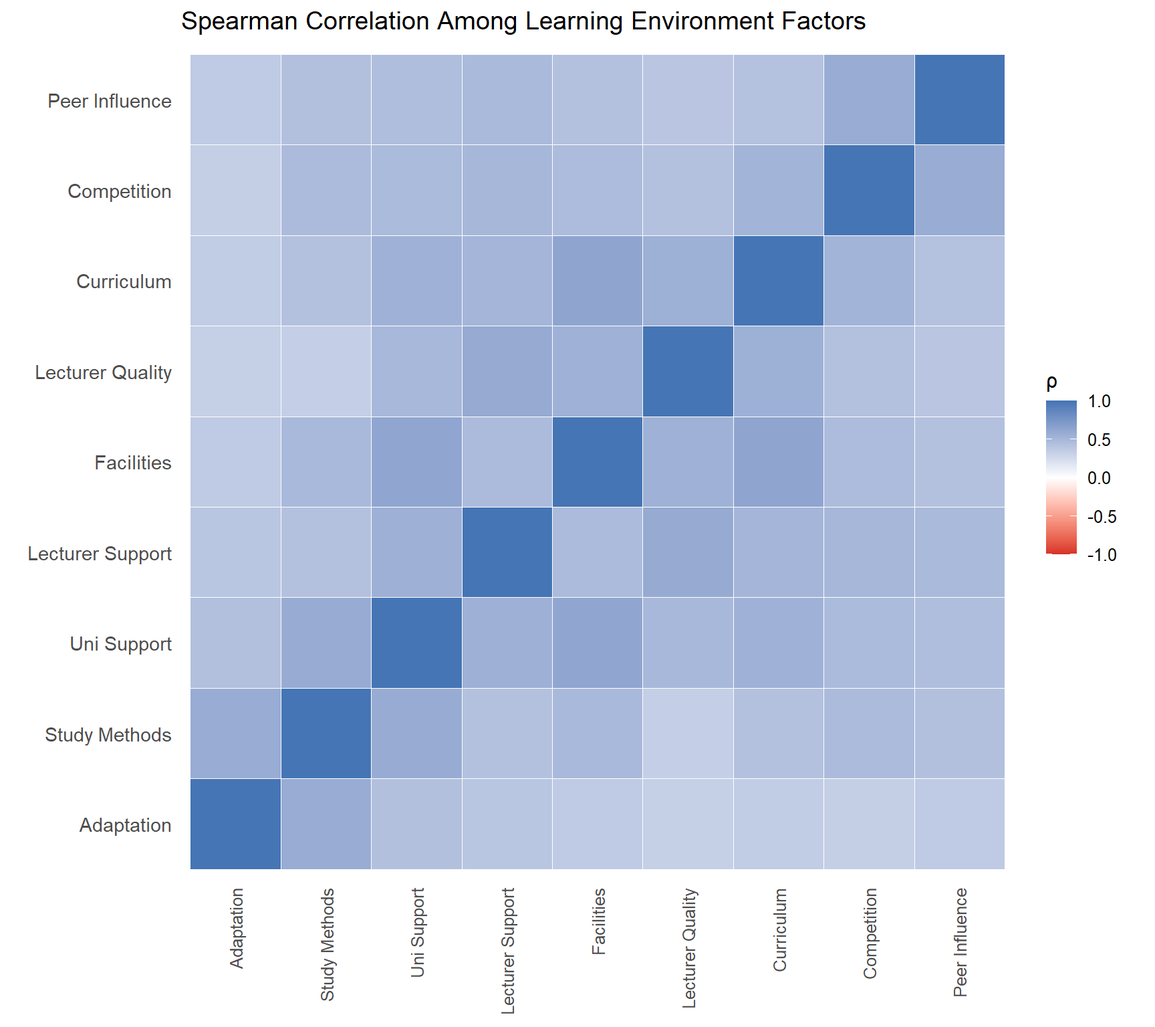
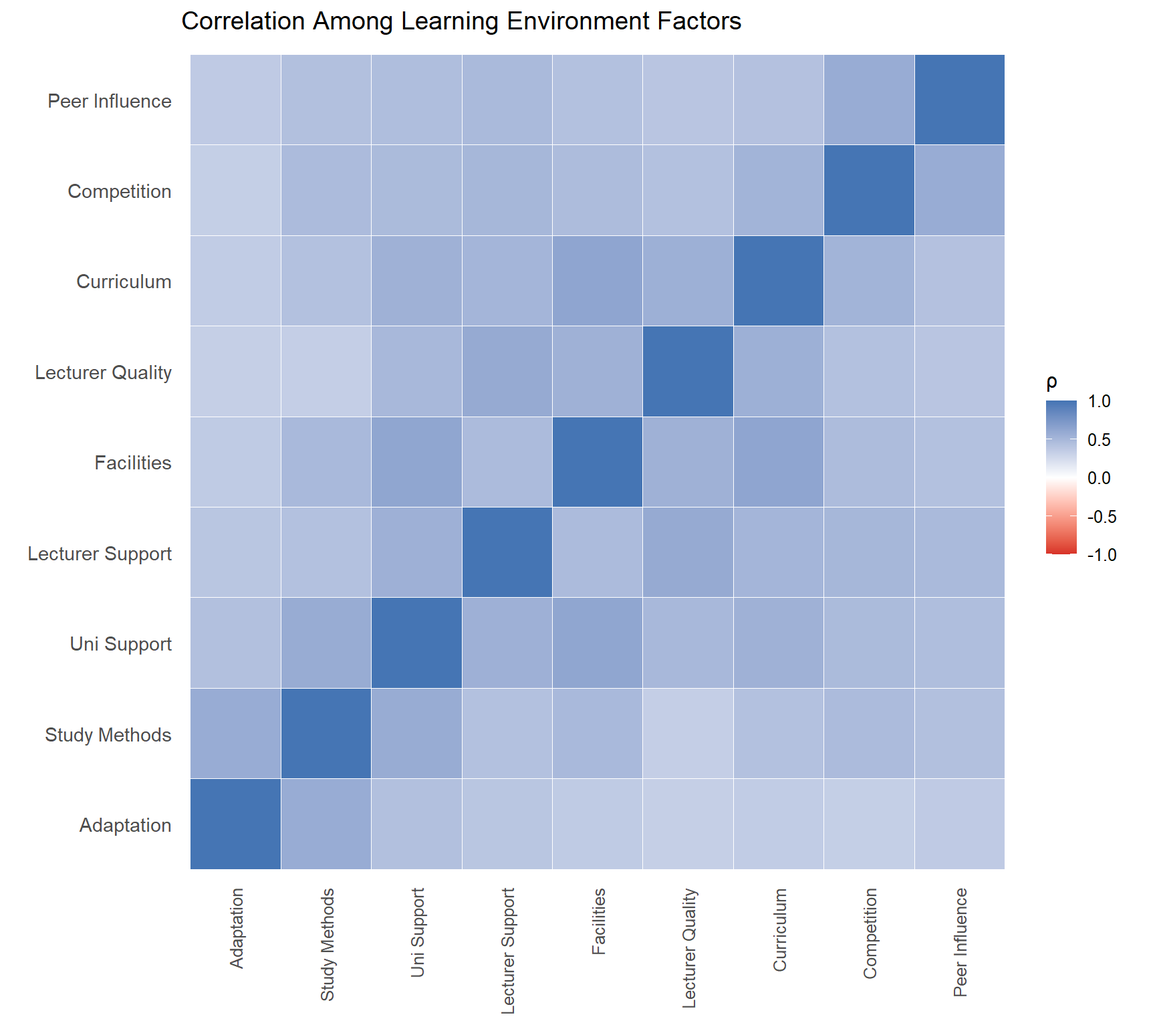
commit on 13 feb

Changed region(s): [[0.1562, 0.0, 0.75, 0.0312]]

diff --git a/_site/TE01.html b/_site/TE01.html
@@ -230,7 +230,7 @@ pre > code.sourceCode > span > a:first-child::before { text-decoration: underlin
     <div>
     <div class="quarto-title-meta-heading">Modified</div>
     <div class="quarto-title-meta-contents">
-      <p class="date-modified">February 8, 2026</p>
+      <p class="date-modified">February 13, 2026</p>
     </div>
   </div>
     
@@ -289,12 +289,10 @@ pre > code.sourceCode > span > a:first-child::before { text-decoration: underlin
 </div>
 </div>
 <div class="callout-body-container callout-body">
-<section id="code" class="level3">
-<h3 class="anchored" data-anchor-id="code">Code</h3>
-<div class="code-copy-outer-scaffold"><div class="sourceCode" id="cb5"><pre class="sourceCode r code-with-copy"><code class="sourceCode r"><span id="cb5-1"><a href="#cb5-1" aria-hidden="true" tabindex="-1"></a><span class="fu">ggplot</span>(<span class="fu">mutate</span>(<span class="fu">count</span>(df, GPA), <span class="at">pct =</span> n <span class="sc">/</span> <span class="fu">sum</span>(n)), <span class="fu">aes</span>(GPA, pct, <span class="at">fill =</span> GPA)) <span class="sc">+</span> <span class="fu">geom_col</span>() <span class="sc">+</span> <span class="fu">coord_flip</span>() <span class="sc">+</span> <span class="fu">scale_y_continuous</span>(<span class="at">labels =</span> scales<span class="sc">::</span><span class="fu">percent_format</span>()) <span class="sc">+</span> <span class="fu">labs</span>(<span class="at">title =</span> <span class="st">"Overall GPA distribution"</span>,<span class="at">x =</span> <span class="cn">NULL</span>, <span class="at">y =</span> <span class="st">"Share of students"</span>, <span class="at">fill =</span> <span class="st">"GPA"</span>) <span class="sc">+</span> <span class="fu">theme_minimal</span>()</span></code></pre></div><button title="Copy to Clipboard" class="code-copy-button"><i class="bi"></i></button></div>
-</section>
-<section id="visual" class="level3">
-<h3 class="anchored" data-anchor-id="visual">Visual</h3>
+<div class="tabset-margin-container"></div><div class="panel-tabset">
+<ul class="nav nav-tabs" role="tablist"><li class="nav-item" role="presentation"><a class="nav-link active" id="tabset-1-1-tab" data-bs-toggle="tab" data-bs-target="#tabset-1-1" role="tab" aria-controls="tabset-1-1" aria-selected="true" href="">Visual</a></li><li class="nav-item" role="presentation"><a class="nav-link" id="tabset-1-2-tab" data-bs-toggle="tab" data-bs-target="#tabset-1-2" role="tab" aria-controls="tabset-1-2" aria-selected="false" href="">Code</a></li></ul>
+<div class="tab-content">
+<div id="tabset-1-1" class="tab-pane active" role="tabpanel" aria-labelledby="tabset-1-1-tab">
 <div class="cell">
 <div class="cell-output-display">
 <div>
@@ -305,11 +303,28 @@ pre > code.sourceCode > span > a:first-child::before { text-decoration: underlin
 </div>
 </div>
 <p><strong>Observation:</strong><br>
-Overall, the GPA distribution is concentrated in the mid-performance range. Most students fall within the 2.5–&lt;3.2 and 3.2–&lt;3.6 categories, while only small proportions appear at the lowest and highest ends. This indicates that the cohort largely consists of average-to-good performers rather than extreme achievers, suggesting a relatively homogeneous distribution of academic outcomes.</p>
-</section>
+Overall, the GPA distribution is concentrated in the mid-performance range. Most students fall within the 2.5 to &lt;3.2 and 3.2 to &lt;3.6 categories, while only small proportions appear at the lowest and highest ends. This indicates that the cohort largely consists of average-to-good performers rather than extreme achievers, suggesting a relatively homogeneous distribution of academic outcomes.</p>
+</div>
+<div id="tabset-1-2" class="tab-pane" role="tabpanel" aria-labelledby="tabset-1-2-tab">
+<div class="code-copy-outer-scaffold"><div class="sourceCode" id="cb5"><pre class="sourceCode r code-with-copy"><code class="sourceCode r"><span id="cb5-1"><a href="#cb5-1" aria-hidden="true" tabindex="-1"></a>total_students <span class="ot">&lt;-</span> <span class="fu">nrow</span>(df)</span>
+<span id="cb5-2"><a href="#cb5-2" aria-hidden="true" tabindex="-1"></a></span>
+<span id="cb5-3"><a href="#cb5-3" aria-hidden="true" tabindex="-1"></a><span class="fu">ggplot</span>(<span class="fu">mutate</span>(<span class="fu">count</span>(df, GPA), <span class="at">pct =</span> n <span class="sc">/</span> <span class="fu">sum</span>(n)), </span>
+<span id="cb5-4"><a href="#cb5-4" aria-hidden="true" tabindex="-1"></a>       <span class="fu">aes</span>(GPA, pct, <span class="at">fill =</span> GPA)) <span class="sc">+</span></span>
+<span id="cb5-5"><a href="#cb5-5" aria-hidden="true" tabindex="-1"></a>  <span class="fu">geom_col</span>() <span class="sc">+</span></span>
+<span id="cb5-6"><a href="#cb5-6" aria-hidden="true" tabindex="-1"></a>  <span class="fu">coord_flip</span>() <span class="sc">+</span></span>
+<span id="cb5-7"><a href="#cb5-7" aria-hidden="true" tabindex="-1"></a>  <span class="fu">scale_y_continuous</span>(<span class="at">labels =</span> scales<span class="sc">::</span><span class="fu">percent_format</span>()) <span class="sc">+</span></span>
+<span id="cb5-8"><a href="#cb5-8" aria-hidden="true" tabindex="-1"></a>  <span class="fu">labs</span>(</span>
+<span id="cb5-9"><a href="#cb5-9" aria-hidden="true" tabindex="-1"></a>    <span class="at">title =</span> <span class="fu">paste0</span>(<span class="st">"Overall GPA distribution (N = "</span>, total_students, <span class="st">")"</span>),</span>
+<span id="cb5-10"><a href="#cb5-10" aria-hidden="true" tabindex="-1"></a>    <span class="at">x =</span> <span class="cn">NULL</span>,</span>
+<span id="cb5-11"><a href="#cb5-11" aria-hidden="true" tabindex="-1"></a>    <span class="at">y =</span> <span class="st">"% of students"</span>,</span>
+<span id="cb5-12"><a href="#cb5-12" aria-hidden="true" tabindex="-1"></a>    <span class="at">fill =</span> <span class="st">"GPA"</span></span>
+<span id="cb5-13"><a href="#cb5-13" aria-hidden="true" tabindex="-1"></a>  ) <span class="sc">+</span></span>
+<span id="cb5-14"><a href="#cb5-14" aria-hidden="true" tabindex="-1"></a>  <span class="fu">theme_minimal</span>()</span></code></pre></div><button title="Copy to Clipboard" class="code-copy-button"><i class="bi"></i></button></div>
 </div>
 </div>
-<hr>
+</div>
+</div>
+</div>
 <div class="callout callout-style-default callout-note callout-titled">
 <div class="callout-header d-flex align-content-center">
 <div class="callout-icon-container">
@@ -320,12 +335,10 @@ Overall, the GPA distribution is concentrated in the mid-performance range. Most
 </div>
 </div>
 <div class="callout-body-container callout-body">
-<section id="code-1" class="level3">
-<h3 class="anchored" data-anchor-id="code-1">Code</h3>
-<div class="code-copy-outer-scaffold"><div class="sourceCode" id="cb6"><pre class="sourceCode r code-with-copy"><code class="sourceCode r"><span id="cb6-1"><a href="#cb6-1" aria-hidden="true" tabindex="-1"></a><span class="fu">ggplot</span>(<span class="fu">mutate</span>(<span class="fu">group_by</span>(<span class="fu">count</span>(df, Year, GPA), Year), <span class="at">pct =</span> n <span class="sc">/</span> <span class="fu">sum</span>(n)), <span class="fu">aes</span>(Year, pct, <span class="at">fill =</span> GPA)) <span class="sc">+</span> <span class="fu">geom_col</span>(<span class="at">position =</span> <span class="st">"fill"</span>) <span class="sc">+</span> <span class="fu">scale_y_continuous</span>(<span class="at">labels =</span> scales<span class="sc">::</span><span class="fu">percent_format</span>()) <span class="sc">+</span> <span class="fu">labs</span>(<span class="at">title =</span> <span class="st">"GPA composition by year of study"</span>, <span class="at">x =</span> <span class="cn">NULL</span>, <span class="at">y =</span> <span class="st">"Share within year"</span>, <span class="at">fill =</span> <span class="st">"GPA"</span>) <span class="sc">+</span> <span class="fu">theme_minimal</span>()</span></code></pre></div><button title="Copy to Clipboard" class="code-copy-button"><i class="bi"></i></button></div>
-</section>
-<section id="visual-1" class="level3">
-<h3 class="anchored" data-anchor-id="visual-1">Visual</h3>
+<div class="tabset-margin-container"></div><div class="panel-tabset">
+<ul class="nav nav-tabs" role="tablist"><li class="nav-item" role="presentation"><a class="nav-link active" id="tabset-2-1-tab" data-bs-toggle="tab" data-bs-target="#tabset-2-1" role="tab" aria-controls="tabset-2-1" aria-selected="true" href="">Visual</a></li><li class="nav-item" role="presentation"><a class="nav-link" id="tabset-2-2-tab" data-bs-toggle="tab" data-bs-target="#tabset-2-2" role="tab" aria-controls="tabset-2-2" aria-selected="false" href="">Code</a></li></ul>
+<div class="tab-content">
+<div id="tabset-2-1" class="tab-pane active" role="tabpanel" aria-labelledby="tabset-2-1-tab">
 <div class="cell">
 <div class="cell-output-display">
 <div>
@@ -336,11 +349,15 @@ Overall, the GPA distribution is concentrated in the mid-performance range. Most
 </div>
 </div>
 <p><strong>Observation:</strong><br>
-Performance patterns vary slightly across academic years. Senior students and graduates generally exhibit a higher proportion of good and excellent GPAs compared with earlier-year students. This may reflect accumulated experience, improved study strategies, and better adaptation to university expectations over time. In contrast, newer students show more mid-range outcomes, possibly due to transitional challenges. The results suggest that academic achievement may improve progressively as students become more familiar with the learning environment.</p>
-</section>
+Performance patterns vary slightly across academic years. Senior students and graduates generally exhibit a higher proportion of good and excellent GPAs compared with earlier-year students. This may reflect accumulated experience, improved study strategies and better adaptation to university expectations over time. In contrast, newer students show more mid-range outcomes, possibly due to transitional challenges. The results suggest that academic achievement may improve progressively as students become more familiar with the learning environment.</p>
+</div>
+<div id="tabset-2-2" class="tab-pane" role="tabpanel" aria-labelledby="tabset-2-2-tab">
+<div class="code-copy-outer-scaffold"><div class="sourceCode" id="cb6"><pre class="sourceCode r code-with-copy"><code class="sourceCode r"><span id="cb6-1"><a href="#cb6-1" aria-hidden="true" tabindex="-1"></a><span class="fu">ggplot</span>(<span class="fu">mutate</span>(<span class="fu">group_by</span>(<span class="fu">count</span>(df, Year, GPA), Year), <span class="at">pct =</span> n <span class="sc">/</span> <span class="fu">sum</span>(n)), <span class="fu">aes</span>(Year, pct, <span class="at">fill =</span> GPA)) <span class="sc">+</span> <span class="fu">geom_col</span>(<span class="at">position =</span> <span class="st">"fill"</span>) <span class="sc">+</span> <span class="fu">scale_y_continuous</span>(<span class="at">labels =</span> scales<span class="sc">::</span><span class="fu">percent_format</span>()) <span class="sc">+</span> <span class="fu">labs</span>(<span class="at">title =</span> <span class="st">"GPA composition by year of study"</span>, <span class="at">x =</span> <span class="cn">NULL</span>, <span class="at">y =</span> <span class="st">"Share within year"</span>, <span class="at">fill =</span> <span class="st">"GPA"</span>) <span class="sc">+</span> <span class="fu">theme_minimal</span>()</span></code></pre></div><button title="Copy to Clipboard" class="code-copy-button"><i class="bi"></i></button></div>
 </div>
 </div>
-<hr>
+</div>
+</div>
+</div>
 <div class="callout callout-style-default callout-note callout-titled">
 <div class="callout-header d-flex align-content-center">
 <div class="callout-icon-container">
@@ -351,13 +368,10 @@ Performance patterns vary slightly across academic years. Senior students and gr
 </div>
 </div>
 <div class="callout-body-container callout-body">
-<section id="code-2" class="level3">
-<h3 class="anchored" data-anchor-id="code-2">Code</h3>
-<div class="code-copy-outer-scaffold"><div class="sourceCode" id="cb7"><pre class="sourceCode r code-with-copy"><code class="sourceCode r"><span id="cb7-1"><a href="#cb7-1" aria-hidden="true" tabindex="-1"></a><span class="fu">ggplot</span>(<span class="fu">mutate</span>(<span class="fu">group_by</span>(<span class="fu">count</span>(df, Year, Time_SocicalMedia, GPA), Year, Time_SocicalMedia),<span class="at">pct =</span> n <span class="sc">/</span> <span class="fu">sum</span>(n)),<span class="fu">aes</span>(Time_SocicalMedia, pct, <span class="at">fill =</span> GPA)) <span class="sc">+</span> <span class="fu">geom_col</span>(<span class="at">position =</span> <span class="st">"fill"</span>) <span class="sc">+</span> <span class="fu">facet_wrap</span>(<span class="sc">~</span>Year, <span class="at">ncol =</span> <span class="dv">2</span>, <span class="at">scales =</span> <span class="st">"fixed"</span>) <span class="sc">+</span> <span class="fu">scale_y_continuous</span>(<span class="at">labels =</span> scales<span class="sc">::</span><span class="fu">percent_format</span>()) <span class="sc">+</span> <span class="fu">labs</span>(<span class="at">title =</span> <span class="st">"GPA composition by daily social media use (by Year)"</span>, <span class="at">x =</span> <span class="st">"Social media time per day"</span>, <span class="at">y =</span> <span class="st">"Share within group"</span>, <span class="at">fill =</span> <span class="st">"GPA"</span>) <span class="sc">+</span> <span class="fu">theme_minimal</span>() <span class="sc">+</span> <span class="fu">theme</span>(</span>
-<span id="cb7-2"><a href="#cb7-2" aria-hidden="true" tabindex="-1"></a>    <span class="at">axis.text =</span> <span class="fu">element_text</span>(<span class="at">size =</span> <span class="dv">8</span>), <span class="at">axis.title =</span> <span class="fu">element_text</span>(<span class="at">size =</span> <span class="dv">9</span>), <span class="at">strip.text =</span> <span class="fu">element_text</span>(<span class="at">size =</span> <span class="dv">10</span>, <span class="at">face =</span> <span class="st">"bold"</span>))</span></code></pre></div><button title="Copy to Clipboard" class="code-copy-button"><i class="bi"></i></button></div>
-</section>
-<section id="visual-2" class="level3">
-<h3 class="anchored" data-anchor-id="visual-2">Visual</h3>
+<div class="tabset-margin-container"></div><div class="panel-tabset">
+<ul class="nav nav-tabs" role="tablist"><li class="nav-item" role="presentation"><a class="nav-link active" id="tabset-3-1-tab" data-bs-toggle="tab" data-bs-target="#tabset-3-1" role="tab" aria-controls="tabset-3-1" aria-selected="true" href="">Visual</a></li><li class="nav-item" role="presentation"><a class="nav-link" id="tabset-3-2-tab" data-bs-toggle="tab" data-bs-target="#tabset-3-2" role="tab" aria-controls="tabset-3-2" aria-selected="false" href="">Code</a></li></ul>
+<div class="tab-content">
+<div id="tabset-3-1" class="tab-pane active" role="tabpanel" aria-labelledby="tabset-3-1-tab">
 <div class="cell">
 <div class="cell-output-display">
 <div>
@@ -368,11 +382,16 @@ Performance patterns vary slightly across academic years. Senior students and gr
 </div>
 </div>
 <p><strong>Observation:</strong><br>
-Across all academic years, heavier daily social media use is associated with a slightly lower share of strong academic outcomes. Students spending more than three to four hours per day tend to show comparatively fewer high GPAs and relatively more mid-range results. Although the differences are modest rather than dramatic, the pattern is consistent across cohorts.</p>
-</section>
+Across all academic years, heavier daily social media use is associated with a slightly lower share of strong academic outcomes. Students spending more than three to four hours per day tend to show comparatively fewer high GPA and relatively more mid range results. Although the differences are modest rather than dramatic, the pattern is consistent across cohorts.</p>
+</div>
+<div id="tabset-3-2" class="tab-pane" role="tabpanel" aria-labelledby="tabset-3-2-tab">
+<div class="code-copy-outer-scaffold"><div class="sourceCode" id="cb7"><pre class="sourceCode r code-with-copy"><code class="sourceCode r"><span id="cb7-1"><a href="#cb7-1" aria-hidden="true" tabindex="-1"></a><span class="fu">ggplot</span>(<span class="fu">mutate</span>(<span class="fu">group_by</span>(<span class="fu">count</span>(df, Year, Time_SocicalMedia, GPA), Year, Time_SocicalMedia),<span class="at">pct =</span> n <span class="sc">/</span> <span class="fu">sum</span>(n)),<span class="fu">aes</span>(Time_SocicalMedia, pct, <span class="at">fill =</span> GPA)) <span class="sc">+</span> <span class="fu">geom_col</span>(<span class="at">position =</span> <span class="st">"fill"</span>) <span class="sc">+</span> <span class="fu">facet_wrap</span>(<span class="sc">~</span>Year, <span class="at">ncol =</span> <span class="dv">2</span>, <span class="at">scales =</span> <span class="st">"fixed"</span>) <span class="sc">+</span> <span class="fu">scale_y_continuous</span>(<span class="at">labels =</span> scales<span class="sc">::</span><span class="fu">percent_format</span>()) <span class="sc">+</span> <span class="fu">labs</span>(<span class="at">title =</span> <span class="st">"GPA composition by daily social media use (by Year)"</span>, <span class="at">x =</span> <span class="st">"Social media time per day"</span>, <span class="at">y =</span> <span class="st">"Share within group"</span>, <span class="at">fill =</span> <span class="st">"GPA"</span>) <span class="sc">+</span> <span class="fu">theme_minimal</span>() <span class="sc">+</span> <span class="fu">theme</span>(</span>
+<span id="cb7-2"><a href="#cb7-2" aria-hidden="true" tabindex="-1"></a>    <span class="at">axis.text =</span> <span class="fu">element_text</span>(<span class="at">size =</span> <span class="dv">8</span>), <span class="at">axis.title =</span> <span class="fu">element_text</span>(<span class="at">size =</span> <span class="dv">9</span>), <span class="at">strip.text =</span> <span class="fu">element_text</span>(<span class="at">size =</span> <span class="dv">10</span>, <span class="at">face =</span> <span class="st">"bold"</span>))</span></code></pre></div><button title="Copy to Clipboard" class="code-copy-button"><i class="bi"></i></button></div>
 </div>
 </div>
-<hr>
+</div>
+</div>
+</div>
 <div class="callout callout-style-default callout-note callout-titled">
 <div class="callout-header d-flex align-content-center">
 <div class="callout-icon-container">
@@ -383,12 +402,10 @@ Across all academic years, heavier daily social media use is associated with a s
 </div>
 </div>
 <div class="callout-body-container callout-body">
-<section id="code-3" class="level3">
-<h3 class="anchored" data-anchor-id="code-3">Code</h3>
-<div class="code-copy-outer-scaffold"><div class="sourceCode" id="cb8"><pre class="sourceCode r code-with-copy"><code class="sourceCode r"><span id="cb8-1"><a href="#cb8-1" aria-hidden="true" tabindex="-1"></a><span class="fu">ggplot</span>(<span class="fu">mutate</span>(<span class="fu">group_by</span>(<span class="fu">count</span>(df, Year, Time_Studying, GPA),     Year, Time_Studying),<span class="at">pct =</span> n <span class="sc">/</span> <span class="fu">sum</span>(n)),<span class="fu">aes</span>(Time_Studying, pct, <span class="at">fill =</span> GPA)) <span class="sc">+</span> <span class="fu">geom_col</span>(<span class="at">position =</span> <span class="st">"fill"</span>) <span class="sc">+</span> <span class="fu">facet_wrap</span>(<span class="sc">~</span>Year, <span class="at">ncol =</span> <span class="dv">2</span>, <span class="at">scales =</span> <span class="st">"fixed"</span>) <span class="sc">+</span> <span class="fu">scale_y_continuous</span>(<span class="at">labels =</span> scales<span class="sc">::</span><span class="fu">percent_format</span>()) <span class="sc">+</span> <span class="fu">labs</span>(<span class="at">title =</span> <span class="st">"GPA composition by daily study time (by Year)"</span>, <span class="at">x =</span> <span class="st">"Study time per day"</span>, <span class="at">y =</span> <span class="st">"Share within group"</span>, <span class="at">fill =</span> <span class="st">"GPA"</span>) <span class="sc">+</span> <span class="fu">theme_minimal</span>() <span class="sc">+</span> <span class="fu">theme</span>(<span class="at">axis.text =</span> <span class="fu">element_text</span>(<span class="at">size =</span> <span class="dv">8</span>), <span class="at">axis.title =</span> <span class="fu">element_text</span>(<span class="at">size =</span> <span class="dv">9</span>),  <span class="at">strip.text =</span> <span class="fu">element_text</span>(<span class="at">size =</span> <span class="dv">10</span>, <span class="at">face =</span> <span class="st">"bold"</span>))</span></code></pre></div><button title="Copy to Clipboard" class="code-copy-button"><i class="bi"></i></button></div>
-</section>
-<section id="visual-3" class="level3">
-<h3 class="anchored" data-anchor-id="visual-3">Visual</h3>
+<div class="tabset-margin-container"></div><div class="panel-tabset">
+<ul class="nav nav-tabs" role="tablist"><li class="nav-item" role="presentation"><a class="nav-link active" id="tabset-4-1-tab" data-bs-toggle="tab" data-bs-target="#tabset-4-1" role="tab" aria-controls="tabset-4-1" aria-selected="true" href="">Visual</a></li><li class="nav-item" role="presentation"><a class="nav-link" id="tabset-4-2-tab" data-bs-toggle="tab" data-bs-target="#tabset-4-2" role="tab" aria-controls="tabset-4-2" aria-selected="false" href="">Code</a></li></ul>
+<div class="tab-content">
+<div id="tabset-4-1" class="tab-pane active" role="tabpanel" aria-labelledby="tabset-4-1-tab">
 <div class="cell">
 <div class="cell-output-display">
 <div>
@@ -399,11 +416,15 @@ Across all academic years, heavier daily social media use is associated with a s
 </div>
 </div>
 <p><strong>Observation:</strong><br>
-Across all academic years, students who report longer daily study hours tend to show a higher share of good and excellent GPA outcomes. Groups studying six hours or more generally contain relatively more high-performing students, while shorter study durations display a larger proportion of mid-to-lower GPAs. Although the differences are moderate rather than dramatic, the pattern is consistent across cohorts. Overall, study time appears to be positively associated with academic performance, though other factors may also play a role.</p>
-</section>
+Across all academic years, students who report longer daily study hours tend to show a higher share of better GPA outcomes. Groups studying six hours or more generally contain relatively more high-performing students, while shorter study duration display a larger proportion of mid to lower range of GPA. Although the differences are moderate rather than dramatic, the pattern is consistent across cohorts. Overall, study time appears to be positively associated with academic performance.</p>
+</div>
+<div id="tabset-4-2" class="tab-pane" role="tabpanel" aria-labelledby="tabset-4-2-tab">
+<div class="code-copy-outer-scaffold"><div class="sourceCode" id="cb8"><pre class="sourceCode r code-with-copy"><code class="sourceCode r"><span id="cb8-1"><a href="#cb8-1" aria-hidden="true" tabindex="-1"></a><span class="fu">ggplot</span>(<span class="fu">mutate</span>(<span class="fu">group_by</span>(<span class="fu">count</span>(df, Year, Time_Studying, GPA),     Year, Time_Studying),<span class="at">pct =</span> n <span class="sc">/</span> <span class="fu">sum</span>(n)),<span class="fu">aes</span>(Time_Studying, pct, <span class="at">fill =</span> GPA)) <span class="sc">+</span> <span class="fu">geom_col</span>(<span class="at">position =</span> <span class="st">"fill"</span>) <span class="sc">+</span> <span class="fu">facet_wrap</span>(<span class="sc">~</span>Year, <span class="at">ncol =</span> <span class="dv">2</span>, <span class="at">scales =</span> <span class="st">"fixed"</span>) <span class="sc">+</span> <span class="fu">scale_y_continuous</span>(<span class="at">labels =</span> scales<span class="sc">::</span><span class="fu">percent_format</span>()) <span class="sc">+</span> <span class="fu">labs</span>(<span class="at">title =</span> <span class="st">"GPA composition by daily study time (by Year)"</span>, <span class="at">x =</span> <span class="st">"Study time per day"</span>, <span class="at">y =</span> <span class="st">"Share within group"</span>, <span class="at">fill =</span> <span class="st">"GPA"</span>) <span class="sc">+</span> <span class="fu">theme_minimal</span>() <span class="sc">+</span> <span class="fu">theme</span>(<span class="at">axis.text =</span> <span class="fu">element_text</span>(<span class="at">size =</span> <span class="dv">8</span>), <span class="at">axis.title =</span> <span class="fu">element_text</span>(<span class="at">size =</span> <span class="dv">9</span>),  <span class="at">strip.text =</span> <span class="fu">element_text</span>(<span class="at">size =</span> <span class="dv">10</span>, <span class="at">face =</span> <span class="st">"bold"</span>))</span></code></pre></div><button title="Copy to Clipboard" class="code-copy-button"><i class="bi"></i></button></div>
 </div>
 </div>
-<hr>
+</div>
+</div>
+</div>
 <div class="callout callout-style-default callout-note callout-titled">
 <div class="callout-header d-flex align-content-center">
 <div class="callout-icon-container">
@@ -414,16 +435,10 @@ Across all academic years, students who report longer daily study hours tend to 
 </div>
 </div>
 <div class="callout-body-container callout-body">
-<section id="code-4" class="level3">
-<h3 class="anchored" data-anchor-id="code-4">Code</h3>
-<div class="code-copy-outer-scaffold"><div class="sourceCode" id="cb9"><pre class="sourceCode r code-with-copy"><code class="sourceCode r"><span id="cb9-1"><a href="#cb9-1" aria-hidden="true" tabindex="-1"></a>p5_uni_support <span class="ot">&lt;-</span> <span class="fu">plot_likert_stack</span>(df, <span class="st">"SupportOf_Uni"</span>, <span class="st">"Perceived university support"</span>)</span>
-<span id="cb9-2"><a href="#cb9-2" aria-hidden="true" tabindex="-1"></a></span>
-<span id="cb9-3"><a href="#cb9-3" aria-hidden="true" tabindex="-1"></a>p5_lec_support <span class="ot">&lt;-</span> <span class="fu">plot_likert_stack</span>(df, <span class="st">"SupportOf_Lec"</span>, <span class="st">"Perceived lecturer support"</span>)</span>
-<span id="cb9-4"><a href="#cb9-4" aria-hidden="true" tabindex="-1"></a></span>
-<span id="cb9-5"><a href="#cb9-5" aria-hidden="true" tabindex="-1"></a>p5_uni_support <span class="sc">/</span> p5_lec_support</span></code></pre></div><button title="Copy to Clipboard" class="code-copy-button"><i class="bi"></i></button></div>
-</section>
-<section id="visual-4" class="level3">
-<h3 class="anchored" data-anchor-id="visual-4">Visual</h3>
+<div class="tabset-margin-container"></div><div class="panel-tabset">
+<ul class="nav nav-tabs" role="tablist"><li class="nav-item" role="presentation"><a class="nav-link active" id="tabset-5-1-tab" data-bs-toggle="tab" data-bs-target="#tabset-5-1" role="tab" aria-controls="tabset-5-1" aria-selected="true" href="">Visual</a></li><li class="nav-item" role="presentation"><a class="nav-link" id="tabset-5-2-tab" data-bs-toggle="tab" data-bs-target="#tabset-5-2" role="tab" aria-controls="tabset-5-2" aria-selected="false" href="">Code</a></li></ul>
+<div class="tab-content">
+<div id="tabset-5-1" class="tab-pane active" role="tabpanel" aria-labelledby="tabset-5-1-tab">
 <div class="cell">
 <div class="cell-output-display">
 <div>
@@ -434,11 +449,19 @@ Across all academic years, students who report longer daily study hours tend to 
 </div>
 </div>
 <p><strong>Observation:</strong><br>
-Perceptions of both university and lecturer support are strongly positive, with most responses concentrated in the “Quite” and “Very” supportive categories. Lecturer support appears marginally stronger than institutional support, indicating that direct interaction with teaching staff may have a greater perceived impact on learning. Negative responses are minimal, suggesting that students generally feel well assisted academically and administratively. Such supportive conditions likely contribute to maintaining stable and satisfactory learning outcomes.</p>
-</section>
+Perceptions of both university and lecturer support are strongly positive, with most responses concentrated in the “Quite” and “Very” supportive categories. Lecturer support appears marginally stronger than university support, indicating that direct interaction with teaching staff may have a greater perceived impact on learning. Negative responses are minimal, suggesting that students generally feel well assisted academically and administratively. Such supportive conditions likely contribute to maintaining stable and satisfactory learning outcomes.</p>
+</div>
+<div id="tabset-5-2" class="tab-pane" role="tabpanel" aria-labelledby="tabset-5-2-tab">
+<div class="code-copy-outer-scaffold"><div class="sourceCode" id="cb9"><pre class="sourceCode r code-with-copy"><code class="sourceCode r"><span id="cb9-1"><a href="#cb9-1" aria-hidden="true" tabindex="-1"></a>p5_uni_support <span class="ot">&lt;-</span> <span class="fu">plot_likert_stack</span>(df, <span class="st">"SupportOf_Uni"</span>, <span class="st">"Perceived university support"</span>)</span>
+<span id="cb9-2"><a href="#cb9-2" aria-hidden="true" tabindex="-1"></a></span>
+<span id="cb9-3"><a href="#cb9-3" aria-hidden="true" tabindex="-1"></a>p5_lec_support <span class="ot">&lt;-</span> <span class="fu">plot_likert_stack</span>(df, <span class="st">"SupportOf_Lec"</span>, <span class="st">"Perceived lecturer support"</span>)</span>
+<span id="cb9-4"><a href="#cb9-4" aria-hidden="true" tabindex="-1"></a></span>
+<span id="cb9-5"><a href="#cb9-5" aria-hidden="true" tabindex="-1"></a>p5_uni_support <span class="sc">/</span> p5_lec_support</span></code></pre></div><button title="Copy to Clipboard" class="code-copy-button"><i class="bi"></i></button></div>
 </div>
 </div>
-<hr>
+</div>
+</div>
+</div>
 <div class="callout callout-style-default callout-note callout-titled">
 <div class="callout-header d-flex align-content-center">
 <div class="callout-icon-container">
@@ -449,30 +472,10 @@ Perceptions of both university and lecturer support are strongly positive, with 
 </div>
 </div>
 <div class="callout-body-container callout-body">
-<section id="code-5" class="level3">
-<h3 class="anchored" data-anchor-id="code-5">Code</h3>
-<div class="code-copy-outer-scaffold"><div class="sourceCode" id="cb10"><pre class="sourceCode r code-with-copy"><code class="sourceCode r"><span id="cb10-1"><a href="#cb10-1" aria-hidden="true" tabindex="-1"></a></span>
-<span id="cb10-2"><a href="#cb10-2" aria-hidden="true" tabindex="-1"></a>likert_vars <span class="ot">&lt;-</span> <span class="fu">c</span>(<span class="st">"Adapt_Learning_Uni"</span>,<span class="st">"Study_Methods"</span>,<span class="st">"SupportOf_Uni"</span>,<span class="st">"SupportOf_Lec"</span>, <span class="st">"Facilitie_Uni"</span>,<span class="st">"Quality_Lecturer"</span>,<span class="st">"TrainingCurriculum"</span>,<span class="st">"Competitive_Class"</span>,<span class="st">"InfuenceF_Friends"</span>)</span>
-<span id="cb10-3"><a href="#cb10-3" aria-hidden="true" tabindex="-1"></a></span>
-<span id="cb10-4"><a href="#cb10-4" aria-hidden="true" tabindex="-1"></a>nice_labels <span class="ot">&lt;-</span> <span class="fu">c</span>(<span class="st">"Adaptation"</span>,<span class="st">"Study Methods"</span>,<span class="st">"Uni Support"</span>,<span class="st">"Lecturer Support"</span>,<span class="st">"Facilities"</span>,<span class="st">"Lecturer Quality"</span>,<span class="st">"Curriculum"</span>, <span class="st">"Competition"</span>,<span class="st">"Peer Influence"</span>)</span>
-<span id="cb10-5"><a href="#cb10-5" aria-hidden="true" tabindex="-1"></a></span>
-<span id="cb10-6"><a href="#cb10-6" aria-hidden="true" tabindex="-1"></a>df2 <span class="ot">&lt;-</span> <span class="fu">select</span>(df, <span class="fu">all_of</span>(likert_vars))</span>
-<span id="cb10-7"><a href="#cb10-7" aria-hidden="true" tabindex="-1"></a>df2 <span class="ot">&lt;-</span> <span class="fu">drop_na</span>(df2)</span>
-<span id="cb10-8"><a href="#cb10-8" aria-hidden="true" tabindex="-1"></a></span>
-<span id="cb10-9"><a href="#cb10-9" aria-hidden="true" tabindex="-1"></a>corr_mat <span class="ot">&lt;-</span> <span class="fu">cor</span>(df2, <span class="at">method =</span> <span class="st">"spearman"</span>)</span>
-<span id="cb10-10"><a href="#cb10-10" aria-hidden="true" tabindex="-1"></a></span>
-<span id="cb10-11"><a href="#cb10-11" aria-hidden="true" tabindex="-1"></a><span class="fu">colnames</span>(corr_mat) <span class="ot">&lt;-</span> nice_labels</span>
-<span id="cb10-12"><a href="#cb10-12" aria-hidden="true" tabindex="-1"></a><span class="fu">rownames</span>(corr_mat) <span class="ot">&lt;-</span> nice_labels</span>
-<span id="cb10-13"><a href="#cb10-13" aria-hidden="true" tabindex="-1"></a></span>
-<span id="cb10-14"><a href="#cb10-14" aria-hidden="true" tabindex="-1"></a></span>
-<span id="cb10-15"><a href="#cb10-15" aria-hidden="true" tabindex="-1"></a>corr_long <span class="ot">&lt;-</span> <span class="fu">as.data.frame</span>(<span class="fu">as.table</span>(corr_mat))</span>
-<span id="cb10-16"><a href="#cb10-16" aria-hidden="true" tabindex="-1"></a>corr_long <span class="ot">&lt;-</span> <span class="fu">rename</span>(corr_long, <span class="at">var1 =</span> Var1, <span class="at">var2 =</span> Var2, <span class="at">rho =</span> Freq)</span>
-<span id="cb10-17"><a href="#cb10-17" aria-hidden="true" tabindex="-1"></a></span>
-<span id="cb10-18"><a href="#cb10-18" aria-hidden="true" tabindex="-1"></a><span class="fu">ggplot</span>(corr_long, <span class="fu">aes</span>(var1, var2, <span class="at">fill =</span> rho)) <span class="sc">+</span> <span class="fu">geom_tile</span>(<span class="at">color =</span> <span class="st">"white"</span>) <span class="sc">+</span> <span class="fu">coord_equal</span>() <span class="sc">+</span> <span class="fu">scale_fill_gradient2</span>(<span class="at">low =</span> <span class="st">"#d73027"</span>,   <span class="at">mid =</span> <span class="st">"white"</span>, <span class="at">high =</span> <span class="st">"#4575b4"</span>, <span class="at">midpoint =</span> <span class="dv">0</span>, <span class="at">limits =</span> <span class="fu">c</span>(<span class="sc">-</span><span class="dv">1</span>,<span class="dv">1</span>)) <span class="sc">+</span></span>
-<span id="cb10-19"><a href="#cb10-19" aria-hidden="true" tabindex="-1"></a><span class="fu">labs</span>(<span class="at">title =</span> <span class="st">"Spearman Correlation Among Learning Environment Factors"</span>, <span class="at">x =</span> <span class="cn">NULL</span>, <span class="at">y =</span> <span class="cn">NULL</span>, <span class="at">fill =</span> <span class="st">"ρ"</span>) <span class="sc">+</span> <span class="fu">theme_minimal</span>(<span class="at">base_size =</span> <span class="dv">12</span>) <span class="sc">+</span> <span class="fu">theme</span>(<span class="at">axis.text.x =</span> <span class="fu">element_text</span>(<span class="at">angle =</span> <span class="dv">90</span>, <span class="at">vjust =</span> <span class="fl">0.5</span>, <span class="at">hjust =</span> <span class="dv">1</span>), <span class="at">axis.text.y =</span> <span class="fu">element_text</span>(<span class="at">size =</span> <span class="dv">11</span>), <span class="at">panel.grid =</span> <span class="fu">element_blank</span>())</span></code></pre></div><button title="Copy to Clipboard" class="code-copy-button"><i class="bi"></i></button></div>
-</section>
-<section id="visual-5" class="level3">
-<h3 class="anchored" data-anchor-id="visual-5">Visual</h3>
+<div class="tabset-margin-container"></div><div class="panel-tabset">
+<ul class="nav nav-tabs" role="tablist"><li class="nav-item" role="presentation"><a class="nav-link active" id="tabset-6-1-tab" data-bs-toggle="tab" data-bs-target="#tabset-6-1" role="tab" aria-controls="tabset-6-1" aria-selected="true" href="">Visual</a></li><li class="nav-item" role="presentation"><a class="nav-link" id="tabset-6-2-tab" data-bs-toggle="tab" data-bs-target="#tabset-6-2" role="tab" aria-controls="tabset-6-2" aria-selected="false" href="">Code</a></li></ul>
+<div class="tab-content">
+<div id="tabset-6-1" class="tab-pane active" role="tabpanel" aria-labelledby="tabset-6-1-tab">
 <div class="cell">
 <div class="cell-output-display">
 <div>
@@ -483,8 +486,31 @@ Perceptions of both university and lecturer support are strongly positive, with 
 </div>
 </div>
 <p><strong>Observation:</strong><br>
-The heatmap shows moderate positive relationships among several learning environment factors. Adaptation, effective study methods, and lecturer quality tend to move together, indicating that these aspects reinforce one another. Students perceiving strong teaching quality also report better adjustment and learning behaviours. However, correlations are not excessively high, suggesting each factor contributes uniquely to outcomes. Overall, academic performance appears to be shaped by multiple interconnected yet distinct elements of the learning experience rather than any single dominant driver.</p>
-</section>
+The heatmap shows moderate positive relationships among several learning environment factors. Adaptation, effective study methods, and lecturer quality tend to move together, indicating that these aspects reinforce one another. Students perceiving strong teaching quality also report better adjustment and learning behaviors. However, correlations are not excessively high, suggesting each factor contributes uniquely to outcomes. Overall, academic performance appears to be shaped by multiple interconnected yet distinct elements of the learning experience rather than any single dominant driver.</p>
+</div>
+<div id="tabset-6-2" class="tab-pane" role="tabpanel" aria-labelledby="tabset-6-2-tab">
+<div class="code-copy-outer-scaffold"><div class="sourceCode" id="cb10"><pre class="sourceCode r code-with-copy"><code class="sourceCode r"><span id="cb10-1"><a href="#cb10-1" aria-hidden="true" tabindex="-1"></a></span>
+<span id="cb10-2"><a href="#cb10-2" aria-hidden="true" tabindex="-1"></a>likert_vars <span class="ot">&lt;-</span> <span class="fu">c</span>(<span class="st">"Adapt_Learning_Uni"</span>,<span class="st">"Study_Methods"</span>,<span class="st">"SupportOf_Uni"</span>,<span class="st">"SupportOf_Lec"</span>, <span class="st">"Facilitie_Uni"</span>,<span class="st">"Quality_Lecturer"</span>,<span class="st">"TrainingCurriculum"</span>,<span class="st">"Competitive_Class"</span>,<span class="st">"InfuenceF_Friends"</span>)</span>
+<span id="cb10-3"><a href="#cb10-3" aria-hidden="true" tabindex="-1"></a></span>
+<span id="cb10-4"><a href="#cb10-4" aria-hidden="true" tabindex="-1"></a>likert_labels <span class="ot">&lt;-</span> <span class="fu">c</span>(<span class="st">"Adaptation"</span>,<span class="st">"Study Methods"</span>,<span class="st">"Uni Support"</span>,<span class="st">"Lecturer Support"</span>,<span class="st">"Facilities"</span>,<span class="st">"Lecturer Quality"</span>,<span class="st">"Curriculum"</span>, <span class="st">"Competition"</span>,<span class="st">"Peer Influence"</span>)</span>
+<span id="cb10-5"><a href="#cb10-5" aria-hidden="true" tabindex="-1"></a></span>
+<span id="cb10-6"><a href="#cb10-6" aria-hidden="true" tabindex="-1"></a>df2 <span class="ot">&lt;-</span> <span class="fu">select</span>(df, <span class="fu">all_of</span>(likert_vars))</span>
+<span id="cb10-7"><a href="#cb10-7" aria-hidden="true" tabindex="-1"></a>df2 <span class="ot">&lt;-</span> <span class="fu">drop_na</span>(df2)</span>
+<span id="cb10-8"><a href="#cb10-8" aria-hidden="true" tabindex="-1"></a></span>
+<span id="cb10-9"><a href="#cb10-9" aria-hidden="true" tabindex="-1"></a>corr_mat <span class="ot">&lt;-</span> <span class="fu">cor</span>(df2, <span class="at">method =</span> <span class="st">"spearman"</span>)</span>
+<span id="cb10-10"><a href="#cb10-10" aria-hidden="true" tabindex="-1"></a></span>
+<span id="cb10-11"><a href="#cb10-11" aria-hidden="true" tabindex="-1"></a><span class="fu">colnames</span>(corr_mat) <span class="ot">&lt;-</span> likert_labels</span>
+<span id="cb10-12"><a href="#cb10-12" aria-hidden="true" tabindex="-1"></a><span class="fu">rownames</span>(corr_mat) <span class="ot">&lt;-</span> likert_labels</span>
+<span id="cb10-13"><a href="#cb10-13" aria-hidden="true" tabindex="-1"></a></span>
+<span id="cb10-14"><a href="#cb10-14" aria-hidden="true" tabindex="-1"></a></span>
+<span id="cb10-15"><a href="#cb10-15" aria-hidden="true" tabindex="-1"></a>corr_long <span class="ot">&lt;-</span> <span class="fu">as.data.frame</span>(<span class="fu">as.table</span>(corr_mat))</span>
+<span id="cb10-16"><a href="#cb10-16" aria-hidden="true" tabindex="-1"></a>corr_long <span class="ot">&lt;-</span> <span class="fu">rename</span>(corr_long, <span class="at">var1 =</span> Var1, <span class="at">var2 =</span> Var2, <span class="at">rho =</span> Freq)</span>
+<span id="cb10-17"><a href="#cb10-17" aria-hidden="true" tabindex="-1"></a></span>
+<span id="cb10-18"><a href="#cb10-18" aria-hidden="true" tabindex="-1"></a><span class="fu">ggplot</span>(corr_long, <span class="fu">aes</span>(var1, var2, <span class="at">fill =</span> rho)) <span class="sc">+</span> <span class="fu">geom_tile</span>(<span class="at">color =</span> <span class="st">"white"</span>) <span class="sc">+</span> <span class="fu">coord_equal</span>() <span class="sc">+</span> <span class="fu">scale_fill_gradient2</span>(<span class="at">low =</span> <span class="st">"#d73027"</span>,   <span class="at">mid =</span> <span class="st">"white"</span>, <span class="at">high =</span> <span class="st">"#4575b4"</span>, <span class="at">midpoint =</span> <span class="dv">0</span>, <span class="at">limits =</span> <span class="fu">c</span>(<span class="sc">-</span><span class="dv">1</span>,<span class="dv">1</span>)) <span class="sc">+</span></span>
+<span id="cb10-19"><a href="#cb10-19" aria-hidden="true" tabindex="-1"></a><span class="fu">labs</span>(<span class="at">title =</span> <span class="st">"Correlation Among Learning Environment Factors"</span>, <span class="at">x =</span> <span class="cn">NULL</span>, <span class="at">y =</span> <span class="cn">NULL</span>, <span class="at">fill =</span> <span class="st">"ρ"</span>) <span class="sc">+</span> <span class="fu">theme_minimal</span>(<span class="at">base_size =</span> <span class="dv">12</span>) <span class="sc">+</span> <span class="fu">theme</span>(<span class="at">axis.text.x =</span> <span class="fu">element_text</span>(<span class="at">angle =</span> <span class="dv">90</span>, <span class="at">vjust =</span> <span class="fl">0.5</span>, <span class="at">hjust =</span> <span class="dv">1</span>), <span class="at">axis.text.y =</span> <span class="fu">element_text</span>(<span class="at">size =</span> <span class="dv">11</span>), <span class="at">panel.grid =</span> <span class="fu">element_blank</span>())</span></code></pre></div><button title="Copy to Clipboard" class="code-copy-button"><i class="bi"></i></button></div>
+</div>
+</div>
+</div>
 </div>
 </div>
 
